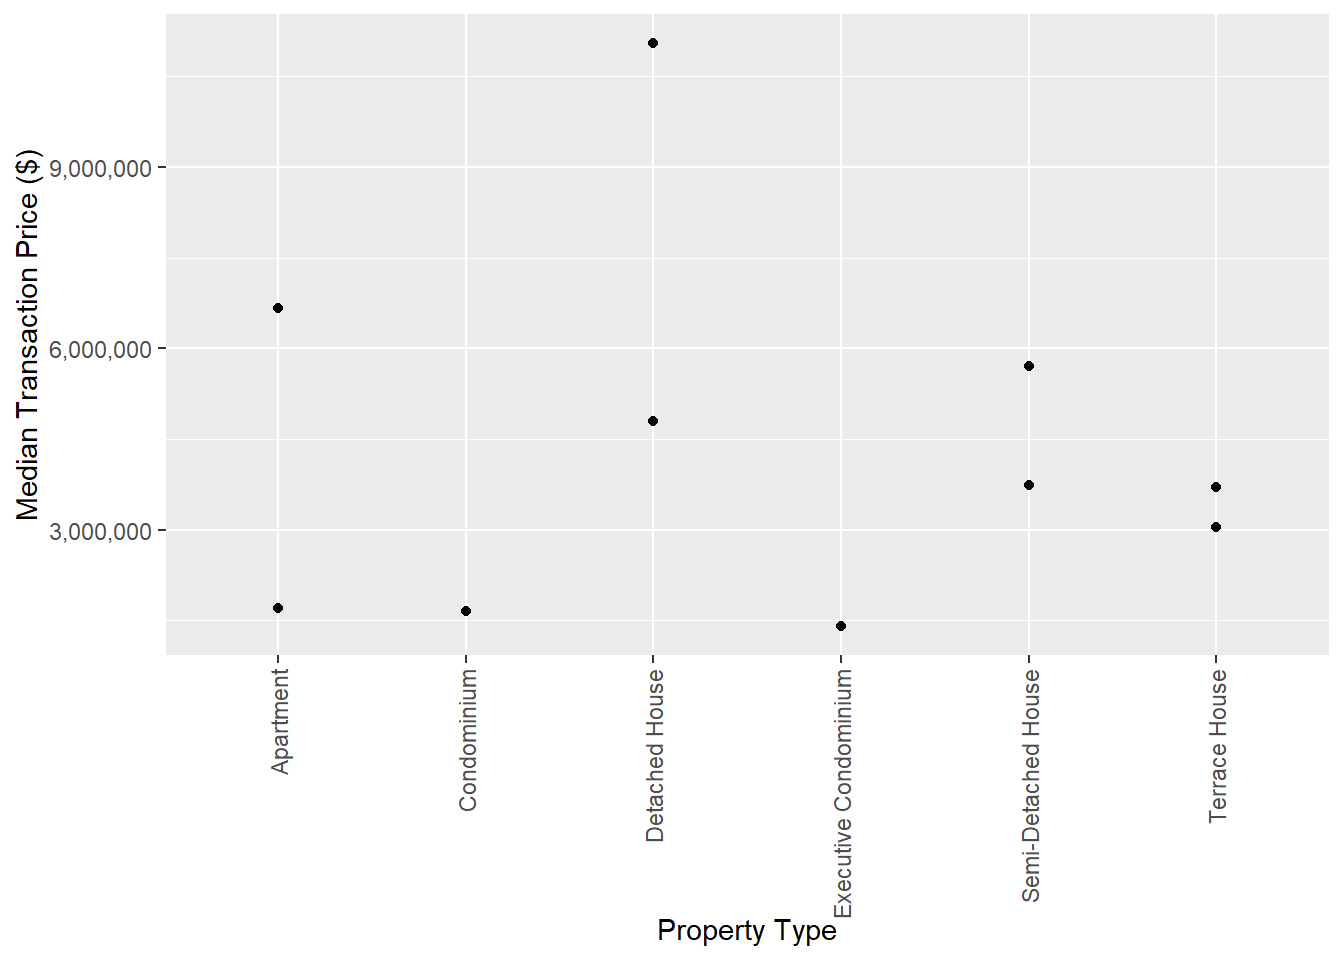
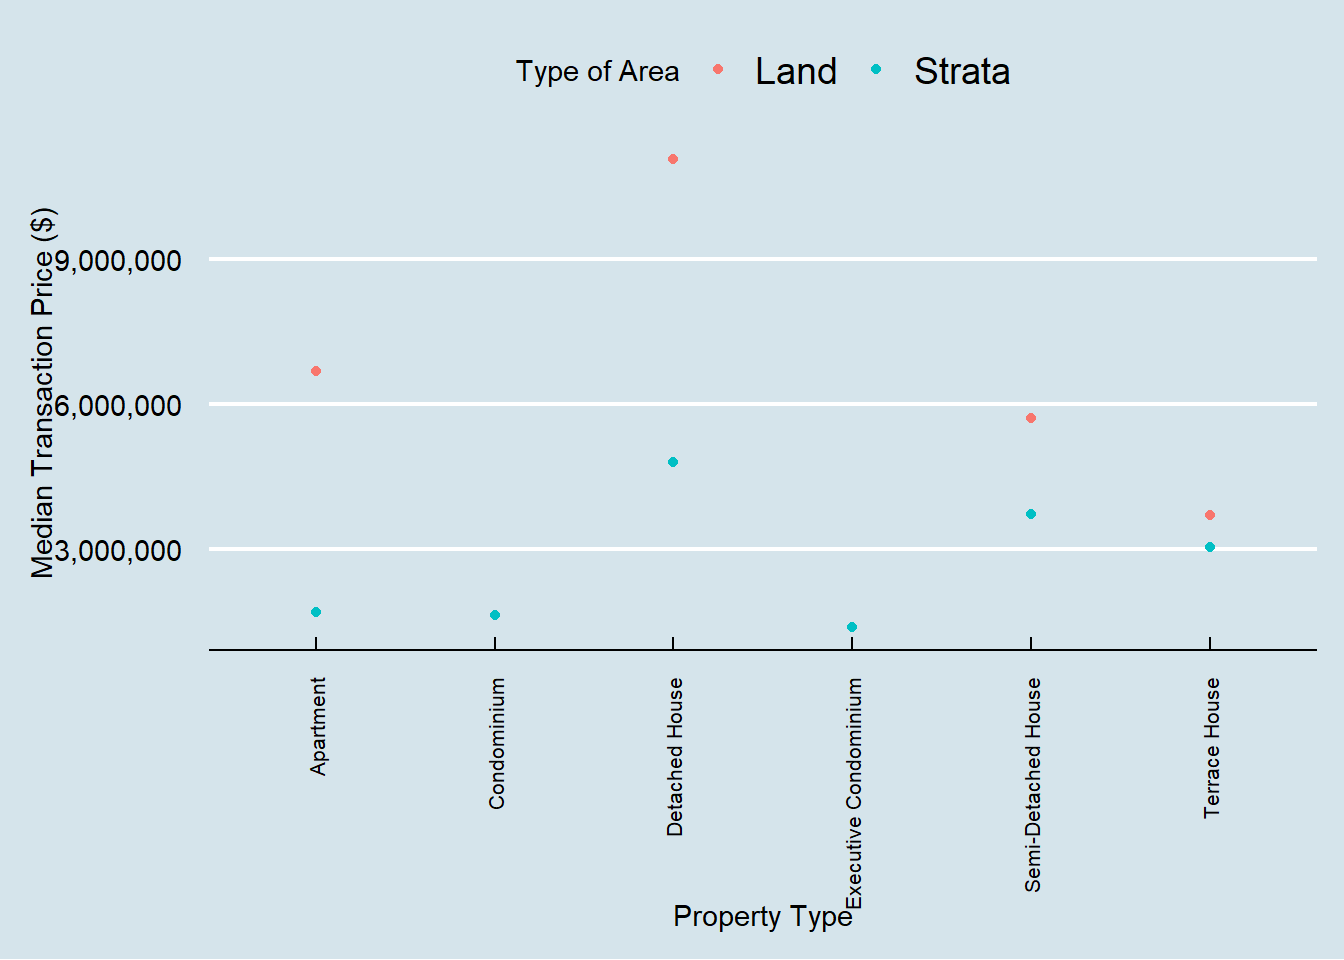
commit

diff --git a/_site/Take-home Exercise/Take-home_Ex01/Take-home_Ex01.html b/_site/Take-home Exercise/Take-home_Ex01/Take-home_Ex01.html
@@ -666,21 +666,35 @@ $ Quarter                       &lt;chr&gt; "23Q1", "23Q1", "23Q1", "23Q1", "23Q
 10 Terrace House         Strata                                3038000</code></pre>
 </div>
 </div>
+<div class="tabset-margin-container"></div><div class="panel-tabset">
+<ul class="nav nav-tabs" role="tablist"><li class="nav-item" role="presentation"><a class="nav-link active" id="tabset-2-1-tab" data-bs-toggle="tab" data-bs-target="#tabset-2-1" role="tab" aria-controls="tabset-2-1" aria-selected="true">The Plot</a></li><li class="nav-item" role="presentation"><a class="nav-link" id="tabset-2-2-tab" data-bs-toggle="tab" data-bs-target="#tabset-2-2" role="tab" aria-controls="tabset-2-2" aria-selected="false">The Code</a></li></ul>
+<div class="tab-content">
+<div id="tabset-2-1" class="tab-pane active" role="tabpanel" aria-labelledby="tabset-2-1-tab">
 <div class="cell">
-<div class="sourceCode cell-code" id="cb19"><pre class="sourceCode r code-with-copy"><code class="sourceCode r"><span id="cb19-1"><a href="#cb19-1" aria-hidden="true" tabindex="-1"></a>df <span class="sc">%&gt;%</span></span>
-<span id="cb19-2"><a href="#cb19-2" aria-hidden="true" tabindex="-1"></a>  <span class="fu">select</span>(<span class="st">`</span><span class="at">Transacted Price ($)</span><span class="st">`</span>,<span class="st">`</span><span class="at">Type of Area</span><span class="st">`</span>, <span class="st">`</span><span class="at">Property Type</span><span class="st">`</span>) <span class="sc">%&gt;%</span></span>
-<span id="cb19-3"><a href="#cb19-3" aria-hidden="true" tabindex="-1"></a>  <span class="fu">group_by</span>(<span class="st">`</span><span class="at">Property Type</span><span class="st">`</span>,<span class="st">`</span><span class="at">Type of Area</span><span class="st">`</span>) <span class="sc">%&gt;%</span></span>
-<span id="cb19-4"><a href="#cb19-4" aria-hidden="true" tabindex="-1"></a>  <span class="fu">summarise</span>(<span class="st">`</span><span class="at">Median Transaction Price ($)</span><span class="st">`</span> <span class="ot">=</span> <span class="fu">median</span>(<span class="st">`</span><span class="at">Transacted Price ($)</span><span class="st">`</span>, <span class="at">.groups =</span> <span class="st">'drop'</span>)) <span class="sc">%&gt;%</span></span>
-<span id="cb19-5"><a href="#cb19-5" aria-hidden="true" tabindex="-1"></a>  <span class="fu">ggplot</span>(<span class="fu">aes</span>(<span class="at">y =</span> <span class="st">`</span><span class="at">Median Transaction Price ($)</span><span class="st">`</span>,</span>
-<span id="cb19-6"><a href="#cb19-6" aria-hidden="true" tabindex="-1"></a>             <span class="at">x =</span> <span class="st">`</span><span class="at">Property Type</span><span class="st">`</span>)) <span class="sc">+</span></span>
-<span id="cb19-7"><a href="#cb19-7" aria-hidden="true" tabindex="-1"></a>  <span class="fu">geom_point</span>() <span class="sc">+</span></span>
-<span id="cb19-8"><a href="#cb19-8" aria-hidden="true" tabindex="-1"></a>  <span class="fu">theme</span>(<span class="at">axis.text.x =</span> <span class="fu">element_text</span>(<span class="at">angle =</span> <span class="dv">90</span>, <span class="at">vjust =</span> <span class="fl">0.5</span>, <span class="at">hjust=</span><span class="dv">1</span>)) <span class="sc">+</span></span>
-<span id="cb19-9"><a href="#cb19-9" aria-hidden="true" tabindex="-1"></a>  <span class="fu">scale_y_continuous</span>(<span class="at">labels =</span> scales<span class="sc">::</span>comma)</span></code><button title="Copy to Clipboard" class="code-copy-button"><i class="bi"></i></button></pre></div>
 <div class="cell-output-display">
 <div>
 <figure class="figure">
 <p><img src="Take-home_Ex01_files/figure-html/unnamed-chunk-15-1.png" class="img-fluid figure-img" width="672"></p>
 </figure>
+</div>
+</div>
+</div>
+</div>
+<div id="tabset-2-2" class="tab-pane" role="tabpanel" aria-labelledby="tabset-2-2-tab">
+<div class="cell">
+<div class="sourceCode cell-code" id="cb19"><pre class="sourceCode r code-with-copy"><code class="sourceCode r"><span id="cb19-1"><a href="#cb19-1" aria-hidden="true" tabindex="-1"></a>df <span class="sc">%&gt;%</span></span>
+<span id="cb19-2"><a href="#cb19-2" aria-hidden="true" tabindex="-1"></a>  <span class="fu">select</span>(<span class="st">`</span><span class="at">Transacted Price ($)</span><span class="st">`</span>, <span class="st">`</span><span class="at">Type of Area</span><span class="st">`</span>, <span class="st">`</span><span class="at">Property Type</span><span class="st">`</span>) <span class="sc">%&gt;%</span></span>
+<span id="cb19-3"><a href="#cb19-3" aria-hidden="true" tabindex="-1"></a>  <span class="fu">group_by</span>(<span class="st">`</span><span class="at">Property Type</span><span class="st">`</span>, <span class="st">`</span><span class="at">Type of Area</span><span class="st">`</span>) <span class="sc">%&gt;%</span></span>
+<span id="cb19-4"><a href="#cb19-4" aria-hidden="true" tabindex="-1"></a>  <span class="fu">summarise</span>(<span class="st">`</span><span class="at">Median Transaction Price ($)</span><span class="st">`</span> <span class="ot">=</span> <span class="fu">median</span>(<span class="st">`</span><span class="at">Transacted Price ($)</span><span class="st">`</span>, <span class="at">.groups =</span> <span class="st">'drop'</span>)) <span class="sc">%&gt;%</span></span>
+<span id="cb19-5"><a href="#cb19-5" aria-hidden="true" tabindex="-1"></a>  <span class="fu">ggplot</span>(<span class="fu">aes</span>(<span class="at">x =</span> <span class="st">`</span><span class="at">Property Type</span><span class="st">`</span>, </span>
+<span id="cb19-6"><a href="#cb19-6" aria-hidden="true" tabindex="-1"></a>             <span class="at">y =</span> <span class="st">`</span><span class="at">Median Transaction Price ($)</span><span class="st">`</span>, </span>
+<span id="cb19-7"><a href="#cb19-7" aria-hidden="true" tabindex="-1"></a>             <span class="at">color =</span> <span class="st">`</span><span class="at">Type of Area</span><span class="st">`</span>)) <span class="sc">+</span>  <span class="co"># Adding color aesthetic based on Type of Area</span></span>
+<span id="cb19-8"><a href="#cb19-8" aria-hidden="true" tabindex="-1"></a>  <span class="fu">geom_point</span>() <span class="sc">+</span></span>
+<span id="cb19-9"><a href="#cb19-9" aria-hidden="true" tabindex="-1"></a>  <span class="fu">theme_economist</span>() <span class="sc">+</span></span>
+<span id="cb19-10"><a href="#cb19-10" aria-hidden="true" tabindex="-1"></a>  <span class="fu">theme</span>(<span class="at">axis.text.x =</span> <span class="fu">element_text</span>(<span class="at">size =</span> <span class="dv">8</span>, <span class="at">angle =</span> <span class="dv">90</span>, <span class="at">vjust =</span> <span class="fl">0.5</span>, <span class="at">hjust=</span><span class="dv">1</span>)) <span class="sc">+</span></span>
+<span id="cb19-11"><a href="#cb19-11" aria-hidden="true" tabindex="-1"></a>  <span class="fu">scale_y_continuous</span>(<span class="at">labels =</span> scales<span class="sc">::</span>comma) <span class="sc">+</span></span>
+<span id="cb19-12"><a href="#cb19-12" aria-hidden="true" tabindex="-1"></a>  <span class="fu">labs</span>(<span class="at">color =</span> <span class="st">"Type of Area"</span>)</span></code><button title="Copy to Clipboard" class="code-copy-button"><i class="bi"></i></button></pre></div>
+</div>
 </div>
 </div>
 </div>
@@ -751,21 +765,22 @@ $ Quarter                       &lt;chr&gt; "23Q1", "23Q1", "23Q1", "23Q1", "23Q
 </section>
 <section id="data-visualisation" class="level2">
 <h2 class="anchored" data-anchor-id="data-visualisation">3.0 Data Visualisation</h2>
+<p>In this section, we will focus on the condominium sub market in Singapore.</p>
 <div class="tabset-margin-container"></div><div class="panel-tabset">
-<ul class="nav nav-tabs" role="tablist"><li class="nav-item" role="presentation"><a class="nav-link active" id="tabset-2-1-tab" data-bs-toggle="tab" data-bs-target="#tabset-2-1" role="tab" aria-controls="tabset-2-1" aria-selected="true">The Plot</a></li><li class="nav-item" role="presentation"><a class="nav-link" id="tabset-2-2-tab" data-bs-toggle="tab" data-bs-target="#tabset-2-2" role="tab" aria-controls="tabset-2-2" aria-selected="false">The Code</a></li></ul>
+<ul class="nav nav-tabs" role="tablist"><li class="nav-item" role="presentation"><a class="nav-link active" id="tabset-3-1-tab" data-bs-toggle="tab" data-bs-target="#tabset-3-1" role="tab" aria-controls="tabset-3-1" aria-selected="true">The Plot</a></li><li class="nav-item" role="presentation"><a class="nav-link" id="tabset-3-2-tab" data-bs-toggle="tab" data-bs-target="#tabset-3-2" role="tab" aria-controls="tabset-3-2" aria-selected="false">The Code</a></li></ul>
 <div class="tab-content">
-<div id="tabset-2-1" class="tab-pane active" role="tabpanel" aria-labelledby="tabset-2-1-tab">
+<div id="tabset-3-1" class="tab-pane active" role="tabpanel" aria-labelledby="tabset-3-1-tab">
 <div class="cell">
 <div class="cell-output-display">
 <div>
 <figure class="figure">
-<p><img src="Take-home_Ex01_files/figure-html/unnamed-chunk-17-1.png" class="img-fluid figure-img" width="672"></p>
+<p><img src="Take-home_Ex01_files/figure-html/unnamed-chunk-18-1.png" class="img-fluid figure-img" width="672"></p>
 </figure>
 </div>
 </div>
 </div>
 </div>
-<div id="tabset-2-2" class="tab-pane" role="tabpanel" aria-labelledby="tabset-2-2-tab">
+<div id="tabset-3-2" class="tab-pane" role="tabpanel" aria-labelledby="tabset-3-2-tab">
 <div class="cell">
 <div class="sourceCode cell-code" id="cb22"><pre class="sourceCode r code-with-copy"><code class="sourceCode r"><span id="cb22-1"><a href="#cb22-1" aria-hidden="true" tabindex="-1"></a>df.c <span class="sc">%&gt;%</span></span>
 <span id="cb22-2"><a href="#cb22-2" aria-hidden="true" tabindex="-1"></a>  <span class="fu">filter</span>(<span class="st">`</span><span class="at">Property Type</span><span class="st">`</span> <span class="sc">==</span> <span class="st">'Condominium'</span>, <span class="st">`</span><span class="at">Quarter</span><span class="st">`</span> <span class="sc">==</span> <span class="st">'24Q1'</span>) <span class="sc">%&gt;%</span></span>
@@ -789,20 +804,20 @@ $ Quarter                       &lt;chr&gt; "23Q1", "23Q1", "23Q1", "23Q1", "23Q
 </div>
 </div>
 <div class="tabset-margin-container"></div><div class="panel-tabset">
-<ul class="nav nav-tabs" role="tablist"><li class="nav-item" role="presentation"><a class="nav-link active" id="tabset-3-1-tab" data-bs-toggle="tab" data-bs-target="#tabset-3-1" role="tab" aria-controls="tabset-3-1" aria-selected="true">The Plot</a></li><li class="nav-item" role="presentation"><a class="nav-link" id="tabset-3-2-tab" data-bs-toggle="tab" data-bs-target="#tabset-3-2" role="tab" aria-controls="tabset-3-2" aria-selected="false">The Code</a></li></ul>
+<ul class="nav nav-tabs" role="tablist"><li class="nav-item" role="presentation"><a class="nav-link active" id="tabset-4-1-tab" data-bs-toggle="tab" data-bs-target="#tabset-4-1" role="tab" aria-controls="tabset-4-1" aria-selected="true">The Plot</a></li><li class="nav-item" role="presentation"><a class="nav-link" id="tabset-4-2-tab" data-bs-toggle="tab" data-bs-target="#tabset-4-2" role="tab" aria-controls="tabset-4-2" aria-selected="false">The Code</a></li></ul>
 <div class="tab-content">
-<div id="tabset-3-1" class="tab-pane active" role="tabpanel" aria-labelledby="tabset-3-1-tab">
+<div id="tabset-4-1" class="tab-pane active" role="tabpanel" aria-labelledby="tabset-4-1-tab">
 <div class="cell">
 <div class="cell-output-display">
 <div>
 <figure class="figure">
-<p><img src="Take-home_Ex01_files/figure-html/unnamed-chunk-19-1.png" class="img-fluid figure-img" width="672"></p>
+<p><img src="Take-home_Ex01_files/figure-html/unnamed-chunk-20-1.png" class="img-fluid figure-img" width="672"></p>
 </figure>
 </div>
 </div>
 </div>
 </div>
-<div id="tabset-3-2" class="tab-pane" role="tabpanel" aria-labelledby="tabset-3-2-tab">
+<div id="tabset-4-2" class="tab-pane" role="tabpanel" aria-labelledby="tabset-4-2-tab">
 <div class="cell">
 <div class="sourceCode cell-code" id="cb23"><pre class="sourceCode r code-with-copy"><code class="sourceCode r"><span id="cb23-1"><a href="#cb23-1" aria-hidden="true" tabindex="-1"></a>quarter_means <span class="ot">&lt;-</span> df.c <span class="sc">%&gt;%</span></span>
 <span id="cb23-2"><a href="#cb23-2" aria-hidden="true" tabindex="-1"></a>  <span class="fu">filter</span>(<span class="st">`</span><span class="at">Property Type</span><span class="st">`</span> <span class="sc">==</span> <span class="st">'Condominium'</span>,<span class="st">`</span><span class="at">Planning Region</span><span class="st">`</span> <span class="sc">==</span> <span class="st">"Central Region"</span>) <span class="sc">%&gt;%</span></span>
@@ -829,20 +844,20 @@ $ Quarter                       &lt;chr&gt; "23Q1", "23Q1", "23Q1", "23Q1", "23Q
 </div>
 </div>
 <div class="tabset-margin-container"></div><div class="panel-tabset">
-<ul class="nav nav-tabs" role="tablist"><li class="nav-item" role="presentation"><a class="nav-link active" id="tabset-4-1-tab" data-bs-toggle="tab" data-bs-target="#tabset-4-1" role="tab" aria-controls="tabset-4-1" aria-selected="true">The Plot</a></li><li class="nav-item" role="presentation"><a class="nav-link" id="tabset-4-2-tab" data-bs-toggle="tab" data-bs-target="#tabset-4-2" role="tab" aria-controls="tabset-4-2" aria-selected="false">The Code</a></li></ul>
+<ul class="nav nav-tabs" role="tablist"><li class="nav-item" role="presentation"><a class="nav-link active" id="tabset-5-1-tab" data-bs-toggle="tab" data-bs-target="#tabset-5-1" role="tab" aria-controls="tabset-5-1" aria-selected="true">The Plot</a></li><li class="nav-item" role="presentation"><a class="nav-link" id="tabset-5-2-tab" data-bs-toggle="tab" data-bs-target="#tabset-5-2" role="tab" aria-controls="tabset-5-2" aria-selected="false">The Code</a></li></ul>
 <div class="tab-content">
-<div id="tabset-4-1" class="tab-pane active" role="tabpanel" aria-labelledby="tabset-4-1-tab">
+<div id="tabset-5-1" class="tab-pane active" role="tabpanel" aria-labelledby="tabset-5-1-tab">
 <div class="cell">
 <div class="cell-output-display">
 <div>
 <figure class="figure">
-<p><img src="Take-home_Ex01_files/figure-html/unnamed-chunk-21-1.png" class="img-fluid figure-img" width="672"></p>
+<p><img src="Take-home_Ex01_files/figure-html/unnamed-chunk-22-1.png" class="img-fluid figure-img" width="672"></p>
 </figure>
 </div>
 </div>
 </div>
 </div>
-<div id="tabset-4-2" class="tab-pane" role="tabpanel" aria-labelledby="tabset-4-2-tab">
+<div id="tabset-5-2" class="tab-pane" role="tabpanel" aria-labelledby="tabset-5-2-tab">
 <div class="cell">
 <div class="sourceCode cell-code" id="cb24"><pre class="sourceCode r code-with-copy"><code class="sourceCode r"><span id="cb24-1"><a href="#cb24-1" aria-hidden="true" tabindex="-1"></a>df.c <span class="sc">%&gt;%</span></span>
 <span id="cb24-2"><a href="#cb24-2" aria-hidden="true" tabindex="-1"></a>  <span class="fu">filter</span>(<span class="st">`</span><span class="at">Property Type</span><span class="st">`</span> <span class="sc">==</span> <span class="st">'Condominium'</span>, <span class="st">`</span><span class="at">Quarter</span><span class="st">`</span> <span class="sc">==</span> <span class="st">'24Q1'</span>, <span class="st">`</span><span class="at">Planning Region</span><span class="st">`</span> <span class="sc">==</span> <span class="st">"Central Region"</span>) <span class="sc">%&gt;%</span></span>
